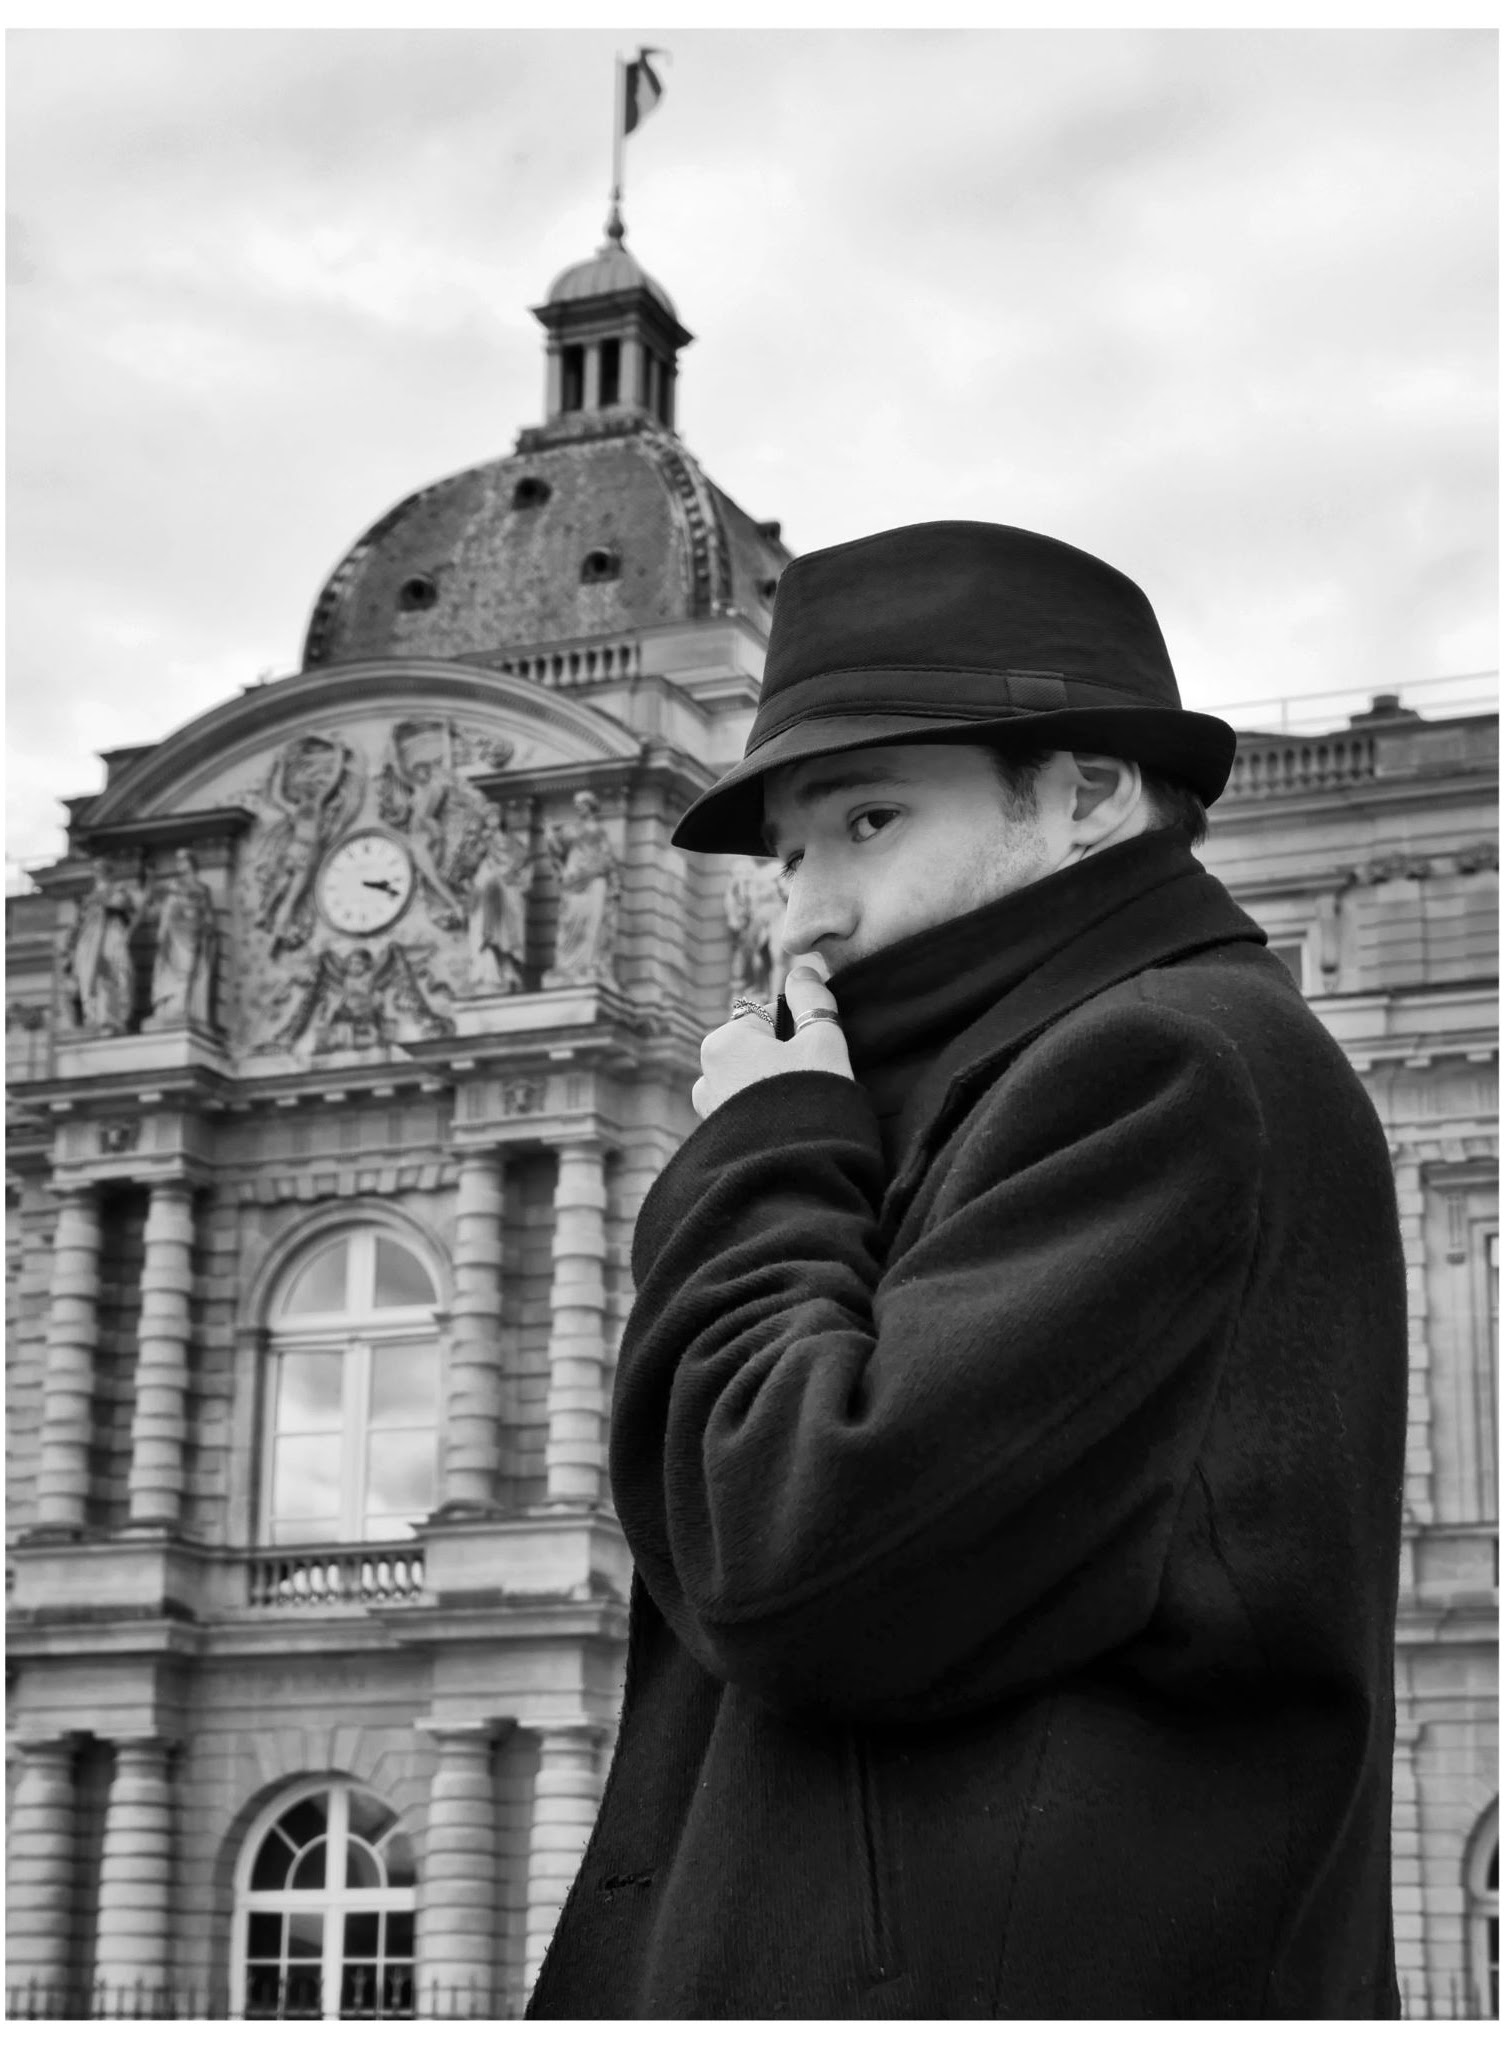
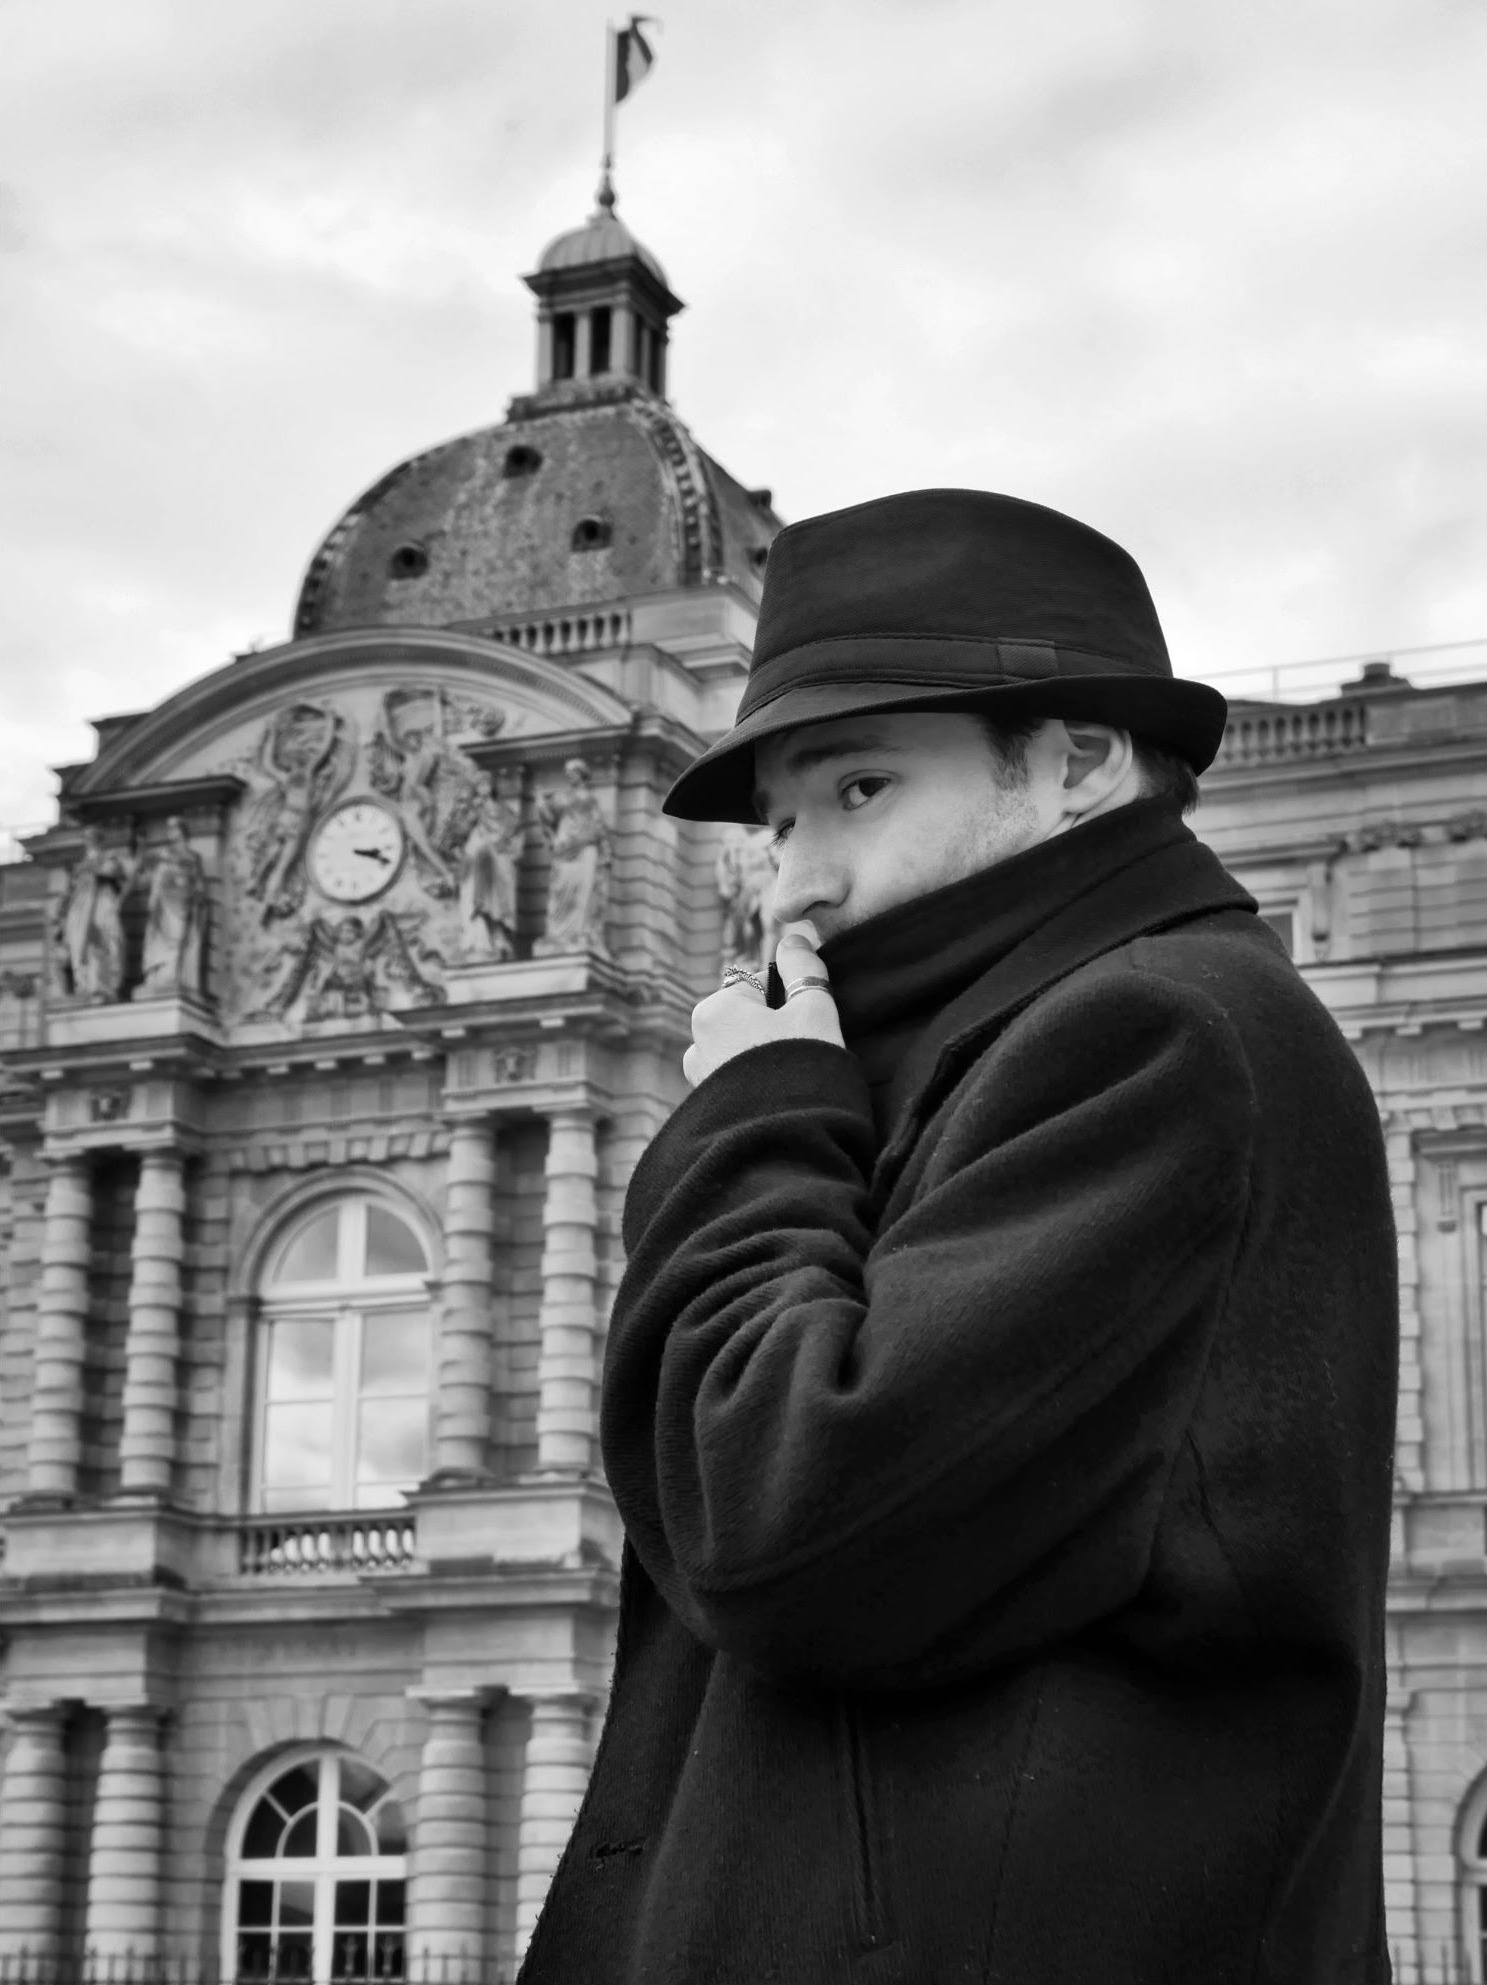
Frais de déplacement : page dédiée et rappel sur les pages de tarifs (#8)
* Frais de déplacement : page dédiée et rappel sur les pages de tarifs

Nouvelle page /deplacements/ avec la grille des forfaits (offert
jusqu'à 20 minutes, puis 15, 25, 40 € ou sur devis selon le temps de
trajet depuis Fontenay-sous-Bois) et la mention des séances au studio
sans frais. Portraits, Mariages, Spectacles et Contact en donnent un
résumé d'une ligne avec un lien vers cette page.

* Tarifs : note sous les formules alignée sur le bloc des prix

La note (déplacements, conditions) était centrée dans la colonne de
texte, décalée par rapport aux formules et collée à la liste « inclus ».
Elle fait maintenant partie du bloc des formules, alignée à gauche.

* Déplacements : adresse du studio et trajets entre plusieurs lieux

* Formules : texte « sur mesure » dans le bloc de fin des rubriques

Nouveau champ cta_texte (facultatif) affiché sous le titre de l'appel
à l'action ; renseigné sur Portraits, Mariages et Spectacles pour les
demandes plus courtes ou avec moins de photos.

* Portraits : nombre de photos dans chaque formule

Nouveau champ « photos » des offres, affiché sous la durée.

* Portraits : photos au-dessus des formules en écho Individuel, Duo, Groupe

Ordre des photos de la rubrique inversé et troisième photo remplacée
par celle du groupe de comédiens. Les photos d'illustration des
rubriques sont désormais en colonnes alignées sur les cartes des
formules.

* Damien Rodriguez : bords blancs rognés sur les photos
[…]

diff --git a/assets/css/styles.css b/assets/css/styles.css
@@ -92,7 +92,11 @@ a.illustre-photo { display: block; aspect-ratio: var(--ratio); overflow: hidden;
   /* Sur mobile, la photo suit toujours son paragraphe, comme sur l'ancien site. */
   .illustre:nth-of-type(odd) .illustre-photo { order: 0; }
 }
-.notes { font-size: .95rem; color: var(--muted); }
+.notes { max-width: 52rem; margin-top: 1rem; font-size: .95rem; color: var(--muted); }
+.prose table { width: 100%; border-collapse: collapse; margin: 1.25rem 0; }
+.prose th, .prose td { text-align: left; padding: .6rem .5rem; border-bottom: 1px solid var(--border); }
+.prose th { font-weight: 600; }
+.prose td:last-child, .prose th:last-child { text-align: right; white-space: nowrap; }
 .section-block { width: var(--page-width); margin: 3.5rem auto 0; }
 .section-block > h2 { font-family: var(--serif); font-weight: 500; font-size: clamp(1.8rem, 3vw, 2.4rem); margin: 0 0 1.25rem; }
 .footer-muted { color: var(--muted); }
@@ -106,6 +110,9 @@ a.illustre-photo { display: block; aspect-ratio: var(--ratio); overflow: hidden;
 }
 .gallery-item img { width: 100%; height: 100%; object-fit: cover; transition: transform .4s ease; }
 .gallery-item:hover img { transform: scale(1.02); }
+.gallery-colonnes { display: grid; grid-template-columns: repeat(auto-fit, minmax(min(100%, 250px), 1fr)); gap: 1.25rem; }
+.gallery-colonnes::after { content: none; }
+.gallery-colonnes .gallery-item { aspect-ratio: 4 / 3; border-radius: var(--radius); }
 @media (max-width: 520px) { .gallery-item { flex-basis: 100%; } }
 
 /* Cartes de galeries et d'univers */
@@ -137,6 +144,8 @@ a.illustre-photo { display: block; aspect-ratio: var(--ratio); overflow: hidden;
 /* Appel à l'action */
 .cta { width: var(--page-width); margin: 4rem auto 0; padding: 3rem 1.5rem; text-align: center; border-top: 1px solid var(--border); }
 .cta-title { font-family: var(--serif); font-size: clamp(1.6rem, 3vw, 2.2rem); margin: 0 0 1.25rem; }
+.cta-text { max-width: 38rem; margin: -.25rem auto 1.75rem; color: var(--muted); }
+.cta-text p { margin: 0 0 .75rem; }
 .button { display: inline-block; background: var(--text); color: var(--bg); text-decoration: none; padding: .8rem 1.8rem; border-radius: 999px; }
 .button:hover { opacity: .85; }
 

diff --git a/layouts/_default/list.html b/layouts/_default/list.html
@@ -11,17 +11,16 @@
 
 <div class="prose">{{ .Content }}</div>
 
-{{/* Les autres photos d'une rubrique (hors couverture) illustrent la page. */}}
+{{/* Les autres photos d'une rubrique (hors couverture) illustrent la page, en colonnes alignées sur les formules. */}}
 {{ with $cover }}
   {{ $autres := slice }}
   {{ range sort ($.Resources.ByType "image") "Name" }}{{ if ne .Name $cover.Name }}{{ $autres = $autres | append . }}{{ end }}{{ end }}
-  {{ with $autres }}<section class="section-block">{{ partial "gallery-grid.html" (dict "page" $ "images" .) }}</section>{{ end }}
+  {{ with $autres }}<section class="section-block">{{ partial "gallery-grid.html" (dict "page" $ "images" . "class" "gallery-colonnes") }}</section>{{ end }}
 {{ end }}
 
 {{ partial "offres.html" . }}
-{{ with .Params.notes_tarifs }}<div class="prose notes">{{ . | markdownify }}</div>{{ end }}
 {{ if .Params.galerie }}<section class="section-block">{{ partial "gallery.html" . }}</section>{{ end }}
 {{ partial "gallery-cards.html" . }}
 {{ partial "temoignages.html" (dict "rubrique" .Section "titre" "Ils en parlent") }}
-{{ partial "cta.html" (dict "titre" .Params.cta_titre "bouton" .Params.cta_bouton) }}
+{{ partial "cta.html" (dict "titre" .Params.cta_titre "texte" .Params.cta_texte "bouton" .Params.cta_bouton) }}
 {{ end }}

diff --git a/layouts/partials/gallery-grid.html b/layouts/partials/gallery-grid.html
@@ -1,8 +1,8 @@
-{{/* Grille justifiée d'une liste de photos. Paramètres : page (pour le titre et les « legendes »), images.
+{{/* Grille justifiée d'une liste de photos. Paramètres : page (pour le titre et les « legendes »), images, class (facultatif).
      Chaque vignette ouvre la visionneuse plein écran (site.js) ; sans JavaScript, le lien ouvre l'image. */}}
 {{ $page := .page }}
 {{ $legendes := $page.Params.legendes | default dict }}
-<div class="gallery" data-gallery>
+<div class="gallery{{ with .class }} {{ . }}{{ end }}" data-gallery>
   {{ range $i, $res := .images }}
     {{ $img := $res | images.Filter images.AutoOrient }}
     {{ $alt := index $legendes $res.Name | default (printf "%s, photo %d" $page.Title (add $i 1)) }}

diff --git a/layouts/_default/contact.html b/layouts/_default/contact.html
@@ -11,6 +11,6 @@
   {{ with .form_url }}<a class="contact-card" href="{{ . }}" rel="noopener"><span class="contact-label">Formulaire</span>Décrire mon projet</a>{{ end }}
   <a class="contact-card" href="{{ .map_url }}" rel="noopener"><span class="contact-label">Adresse</span>{{ .address }}</a>
 </section>
-<p class="prose footer-muted">Zone d'intervention : {{ .area }}. Au-delà, des frais de déplacement s'appliquent.</p>
+<p class="prose footer-muted">Zone d'intervention : {{ .area }}. Séances au studio sans frais de déplacement ; ailleurs, déplacement offert jusqu'à 20 minutes, puis <a href="{{ relref $ "/deplacements" }}">forfait selon le temps de trajet</a>.</p>
 {{ end }}
 {{ end }}

diff --git a/layouts/partials/offres.html b/layouts/partials/offres.html
@@ -7,7 +7,9 @@
       <article class="offer">
         <h3>{{ .titre }}</h3>
         <p class="offer-price">{{ .prix }}</p>
-        {{ with .duree }}<p class="offer-duration">{{ . }}</p>{{ end }}
+        {{ if or .duree .photos }}
+          <p class="offer-duration">{{ .duree }}{{ if and .duree .photos }}<br>{{ end }}{{ .photos }}</p>
+        {{ end }}
         {{ with .description }}<p>{{ . }}</p>{{ end }}
       </article>
     {{ end }}
@@ -17,5 +19,6 @@
       {{ range . }}<li>{{ . }}</li>{{ end }}
     </ul>
   {{ end }}
+  {{ with $.Params.notes_tarifs }}<div class="notes">{{ . | markdownify }}</div>{{ end }}
 </section>
 {{ end }}

diff --git a/layouts/partials/cta.html b/layouts/partials/cta.html
@@ -1,4 +1,5 @@
 <section class="cta">
   <p class="cta-title">{{ .titre | default "Une envie, une idée, un projet photo ?" }}</p>
+  {{ with .texte }}<div class="cta-text">{{ . | markdownify }}</div>{{ end }}
   <a class="button" href="{{ "contact/" | relURL }}">{{ .bouton | default "Parlons-en" }}</a>
 </section>

diff --git a/content/portraits/_index.md b/content/portraits/_index.md
@@ -2,7 +2,7 @@
 title: "Portraits & souvenirs"
 titre_seo: "Photographe portrait à Fontenay-sous-Bois"
 sous_titre: "Des images de vous et de ceux qui comptent."
-description: "Séances photo portrait seul, en duo ou en famille à Fontenay-sous-Bois et dans l'Est parisien, en extérieur ou à domicile. À partir de 180 €."
+description: "Séances photo portrait seul, en duo ou en famille au studio à Fontenay-sous-Bois, en extérieur ou à domicile dans l'Est parisien. À partir de 180 €."
 aliases: ["/portraits-souvenirs/"]
 weight: 10
 offres_titre: "Votre séance portrait"
@@ -10,21 +10,28 @@ offres:
   - titre: "Individuel"
     prix: "180 €"
     duree: "1 heure de prise de vue"
-    description: "Une séance rien que pour vous, en extérieur ou à domicile."
+    photos: "15 photos"
+    description: "Une séance rien que pour vous, au studio, en extérieur ou à domicile."
   - titre: "Duo"
     prix: "220 €"
     duree: "1 heure de prise de vue"
+    photos: "20 photos"
     description: "À deux, tout simplement : des images ensemble et quelques portraits individuels."
   - titre: "Groupe"
     prix: "260 €"
     duree: "1 heure de prise de vue"
-    description: "Pour 3 personnes, puis 20 € par personne supplémentaire."
+    photos: "25 photos"
+    description: "Pour 3 personnes, puis 20 € et 5 photos de plus par personne supplémentaire."
 inclus:
   - "Sélection et traitement des images"
   - "Galerie privée en ligne"
   - "Photos en haute définition"
-notes_tarifs: "Frais de déplacement en supplément selon le lieu de la séance."
-cta_titre: "Envie d'une séance à votre image ?"
+notes_tarifs: "Au studio, pas de frais de déplacement. Ailleurs, déplacement offert jusqu'à 20 minutes de Fontenay-sous-Bois, puis forfait selon le temps de trajet. [Détail des frais de déplacement](../deplacements/)"
+cta_titre: "Une séance adaptée à vos envies"
+cta_texte: |
+  Vous souhaitez une séance plus courte, ou simplement quelques photos pour immortaliser un moment particulier ?
+  
+  Chaque projet est unique : si vous avez besoin de moins d'une heure de prise de vue ou d'un nombre de photos réduit, n'hésitez pas à me contacter. Nous imaginerons ensemble une formule sur mesure, adaptée à vos envies et à votre budget.
 cta_bouton: "Imaginer ma séance"
 ---
 

diff --git a/content/deplacements/index.md b/content/deplacements/index.md
@@ -1,0 +1,28 @@
+---
+title: "Frais de déplacement"
+sous_titre: "Au studio ou chez vous, selon votre projet."
+description: "Frais de déplacement d'ATTI-TUD Photo : séances au studio de Fontenay-sous-Bois (10 avenue Victor Hugo) sans frais, déplacement offert jusqu'à 20 minutes, puis forfait selon le temps de trajet."
+cta_titre: "Une question sur votre projet ?"
+---
+
+## Au studio : pas de frais
+
+Les séances photo au studio, 10 avenue Victor Hugo à Fontenay-sous-Bois, n'entraînent pas de frais de déplacement.
+
+## Ailleurs : un forfait selon le temps de trajet
+
+Pour une prise de vue chez vous, en extérieur ou sur le lieu de votre événement, les frais de déplacement sont calculés au départ de Fontenay-sous-Bois (94120), selon le temps de trajet aller simple estimé avec le moyen de transport retenu pour la prestation.
+
+| Temps de trajet (aller simple) | Forfait |
+| --- | --- |
+| Jusqu'à 20 minutes | Offert |
+| De 21 à 40 minutes | 15 € |
+| De 41 à 60 minutes | 25 € |
+| De 1 h à 1 h 30 | 40 € |
+| Plus de 1 h 30 | Sur devis |
+
+Les forfaits comprennent le déplacement aller-retour et les frais de transport habituels.
+
+## Plusieurs lieux dans la journée
+
+Un mariage ou un événement se déroule parfois en plusieurs endroits : mairie, lieu de cérémonie, salle de réception… Chaque trajet supplémentaire entre ces lieux est compté selon la même grille. Nous faisons le point ensemble lors de la préparation, pour que le devis reflète votre programme.

diff --git a/content/spectacles/_index.md b/content/spectacles/_index.md
@@ -19,8 +19,12 @@ offres:
 inclus:
   - "Prise de vue"
   - "Sélection et traitement des photos"
-notes_tarifs: "Frais de déplacement en supplément. Pour un usage professionnel, institutionnel ou commercial des images, les conditions sont définies sur mesure."
-cta_titre: "Un spectacle, un événement à photographier ?"
+notes_tarifs: "Déplacement offert jusqu'à 20 minutes de Fontenay-sous-Bois, puis forfait selon le temps de trajet ; chaque trajet entre plusieurs lieux est compté ([détail des frais de déplacement](../deplacements/)). Pour un usage professionnel, institutionnel ou commercial des images, les conditions sont définies sur mesure."
+cta_titre: "Un reportage adapté à votre événement"
+cta_texte: |
+  Vous souhaitez une présence plus courte, ou simplement quelques photos pour garder une trace d'un moment particulier ?
+  
+  Chaque projet est unique : si vous avez besoin de moins d'une heure de présence ou d'un nombre de photos réduit, n'hésitez pas à me contacter. Nous imaginerons ensemble une formule sur mesure, adaptée à vos envies et à votre budget.
 cta_bouton: "Demander un devis"
 ---
 

diff --git a/content/mariages/_index.md b/content/mariages/_index.md
@@ -21,8 +21,12 @@ offres:
 inclus:
   - "Sélection et traitement des photos"
   - "Galerie privée en ligne"
-notes_tarifs: "Ces formules sont des points de départ : chaque mariage est différent, parlons du vôtre. Frais de déplacement en supplément."
-cta_titre: "Vous préparez votre mariage ?"
+notes_tarifs: "Ces formules sont des points de départ : chaque mariage est différent, parlons du vôtre. Déplacement offert jusqu'à 20 minutes de Fontenay-sous-Bois, puis forfait selon le temps de trajet ; chaque trajet entre les lieux de la journée est compté. [Détail des frais de déplacement](../deplacements/)"
+cta_titre: "Une présence adaptée à votre journée"
+cta_texte: |
+  Vous souhaitez une présence plus courte, ou simplement quelques photos pour immortaliser un moment particulier ?
+  
+  Chaque mariage est unique : si vous avez besoin de moins de deux heures de présence ou d'un nombre de photos réduit, n'hésitez pas à me contacter. Nous imaginerons ensemble une formule sur mesure, adaptée à vos envies et à votre budget.
 cta_bouton: "Parlons de votre mariage"
 ---
 

diff --git a/content/portraits/damien/index.md b/content/portraits/damien/index.md
@@ -1,6 +1,6 @@
 ---
 title: "Damien Rodriguez"
-sous_titre: "Thème déambulations parisiennes"
+sous_titre: ""
 weight: 34
 aliases: ["/damien/"]
 # Texte alternatif de chaque photo (facultatif, sinon « titre, photo N ») :

diff --git a/content/portraits/barbara/index.md b/content/portraits/barbara/index.md
@@ -1,6 +1,6 @@
 ---
 title: "Barbara Lukumuena"
-sous_titre: "Thème Palais Royal"
+sous_titre: ""
 weight: 32
 aliases: ["/barbara/"]
 # Texte alternatif de chaque photo (facultatif, sinon « titre, photo N ») :
